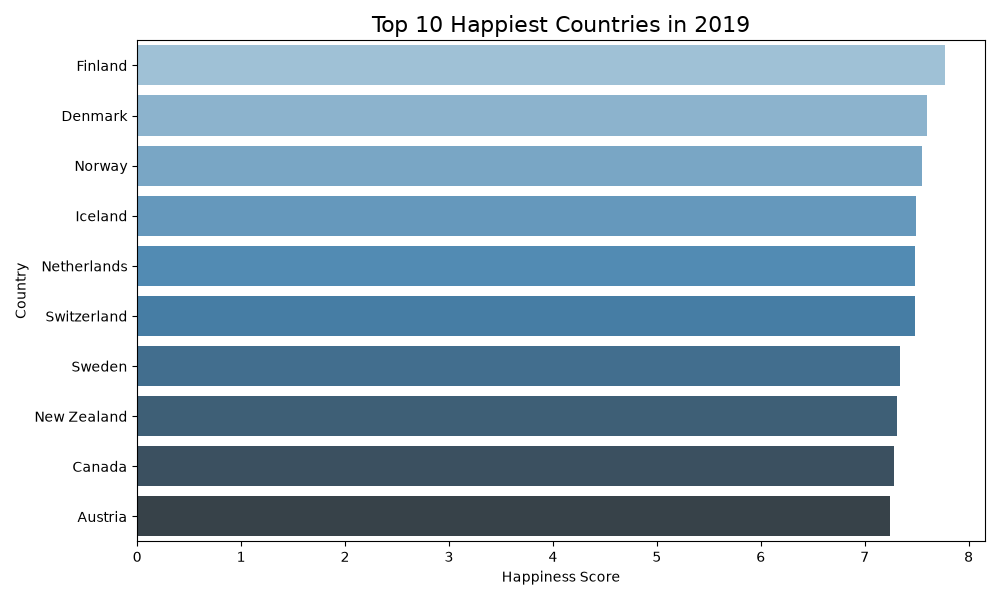
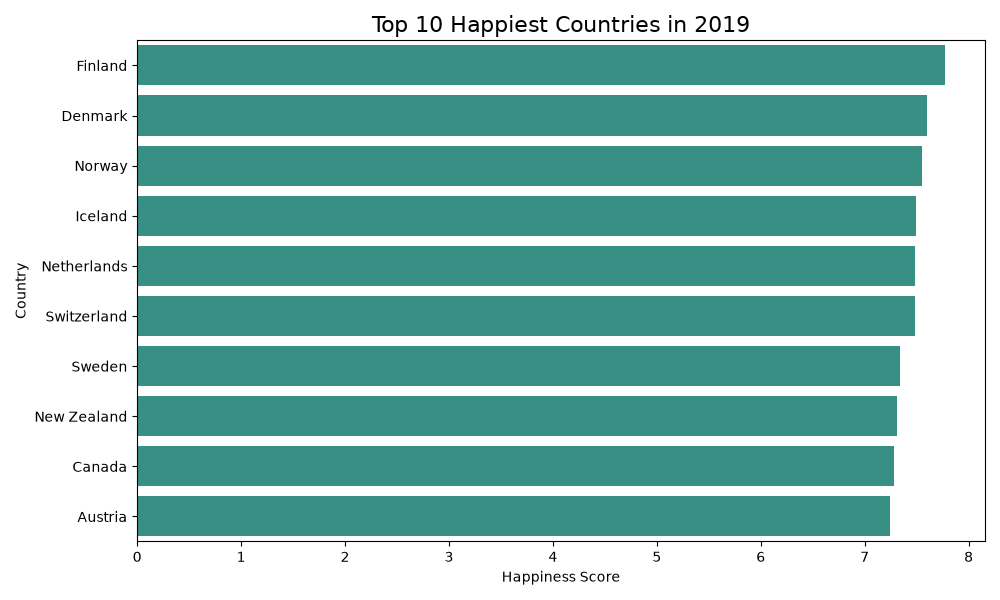
Update charts with teal colour scheme

diff --git a/analysis.py b/analysis.py
@@ -4,15 +4,19 @@
 # ============================================
 
 import pandas as pd
+import matplotlib.pyplot as plt
+import seaborn as sns
 
-# Load all 5 years of data
+# ============================================
+# STEP 1: LOAD DATA
+# ============================================
+
 df_2015 = pd.read_csv("data/2015.csv")
 df_2016 = pd.read_csv("data/2016.csv")
 df_2017 = pd.read_csv("data/2017.csv")
 df_2018 = pd.read_csv("data/2018.csv")
 df_2019 = pd.read_csv("data/2019.csv")
 
-# Preview the 2015 data
 print("Shape:", df_2015.shape)
 print("\nColumns:", df_2015.columns.tolist())
 print("\nFirst 5 rows:")
@@ -22,45 +26,26 @@ print(df_2015.head())
 # STEP 2: DATA CLEANING & EXPLORATION
 # ============================================
 
-# Check for missing values in 2015
 print("Missing values in 2015:")
 print(df_2015.isnull().sum())
 
-# Check basic statistics
 print("\nBasic statistics:")
 print(df_2015.describe())
 
 # ============================================
-# STEP 3: COMBINE ALL YEARS INTO ONE DATASET
+# STEP 3: ADD YEAR COLUMN
 # ============================================
 
-# Add a 'Year' column to each dataframe so we know which year each row came from
 df_2015['Year'] = 2015
 df_2016['Year'] = 2016
 df_2017['Year'] = 2017
 df_2018['Year'] = 2018
 df_2019['Year'] = 2019
 
-# Combine all 5 into one big dataframe
-df_all = pd.concat([df_2015, df_2016, df_2017, df_2018, df_2019], ignore_index=True)
-
-print("Combined dataset shape:", df_all.shape)
-print("\nYears in dataset:", df_all['Year'].unique())
-
-# ============================================
-# STEP 4: FIX COLUMN NAME INCONSISTENCIES
-# ============================================
-
-# Check column names across different years
-print("2015 columns:", df_2015.columns.tolist())
-print("2018 columns:", df_2018.columns.tolist())
-print("2019 columns:", df_2019.columns.tolist())
-
 # ============================================
 # STEP 4: STANDARDISE COLUMN NAMES
 # ============================================
 
-# Rename columns in each year to match a standard set
 df_2015 = df_2015.rename(columns={
     'Happiness Rank': 'Rank',
     'Happiness Score': 'Score',
@@ -109,8 +94,7 @@ df_2019 = df_2019.rename(columns={
     'Perceptions of corruption': 'Corruption',
 })
 
-# Keep only the columns that exist across all years
-cols = ['Country', 'Rank', 'Score', 'GDP', 'Social Support', 
+cols = ['Country', 'Rank', 'Score', 'GDP', 'Social Support',
         'Health', 'Freedom', 'Generosity', 'Corruption', 'Year']
 
 df_2015 = df_2015[cols]
@@ -119,7 +103,6 @@ df_2017 = df_2017[cols]
 df_2018 = df_2018[cols]
 df_2019 = df_2019[cols]
 
-# Combine into one clean dataset
 df_all = pd.concat([df_2015, df_2016, df_2017, df_2018, df_2019], ignore_index=True)
 
 print("Clean combined shape:", df_all.shape)
@@ -131,24 +114,17 @@ print(df_all.head())
 # STEP 5: TOP 10 HAPPIEST COUNTRIES (2019)
 # ============================================
 
-import matplotlib.pyplot as plt
-import seaborn as sns
-
-# Filter just 2019 data and get top 10
 top10 = df_all[df_all['Year'] == 2019].nlargest(10, 'Score')
 
-# Create the chart
 plt.figure(figsize=(10, 6))
-sns.barplot(data=top10, x='Score', y='Country', palette='Blues_d')
-
+sns.barplot(data=top10, x='Score', y='Country', color='#2a9d8f')
 plt.title('Top 10 Happiest Countries in 2019', fontsize=16)
 plt.xlabel('Happiness Score')
 plt.ylabel('Country')
 plt.tight_layout()
 plt.savefig('Visuals/top10_happiest_2019.png')
 plt.show()
-
-print("Chart saved!")
+print("Chart 1 saved!")
 
 # ============================================
 # STEP 6: BOTTOM 10 UNHAPPIEST COUNTRIES (2019)
@@ -157,133 +133,27 @@ print("Chart saved!")
 bottom10 = df_all[df_all['Year'] == 2019].nsmallest(10, 'Score')
 
 plt.figure(figsize=(10, 6))
-sns.barplot(data=bottom10, x='Score', y='Country', palette='Reds_d')
-
+sns.barplot(data=bottom10, x='Score', y='Country', color='#1a5c5c')
 plt.title('Bottom 10 Unhappiest Countries in 2019', fontsize=16)
 plt.xlabel('Happiness Score')
 plt.ylabel('Country')
 plt.tight_layout()
 plt.savefig('Visuals/bottom10_unhappiest_2019.png')
 plt.show()
-
-print("Bottom 10 chart saved!")
+print("Chart 2 saved!")
 
 # ============================================
 # STEP 7: CORRELATION HEATMAP
 # ============================================
 
-# Select only the numeric factor columns
-factors = ['Score', 'GDP', 'Social Support', 'Health', 
+factors = ['Score', 'GDP', 'Social Support', 'Health',
            'Freedom', 'Generosity', 'Corruption']
 
-# Calculate correlation matrix
 corr = df_all[factors].corr()
 
-# Plot heatmap
 plt.figure(figsize=(10, 8))
-sns.heatmap(corr, annot=True, cmap='coolwarm', fmt='.2f', linewidths=0.5)
-
+sns.heatmap(corr, annot=True, cmap='YlGnBu', fmt='.2f', linewidths=0.5)
 plt.title('Correlation Between Happiness Factors', fontsize=16)
 plt.tight_layout()
 plt.savefig('Visuals/correlation_heatmap.png')
-plt.show()
-
-print("Heatmap saved!")
-
-# ============================================
-# STEP 8: AVERAGE HAPPINESS BY YEAR (TREND)
-# ============================================
-
-# Calculate the average happiness score for each year
-yearly_avg = df_all.groupby('Year')['Score'].mean()
-
-# Plot the trend line
-plt.figure(figsize=(10, 6))
-plt.plot(yearly_avg.index, yearly_avg.values, marker='o', 
-         color='steelblue', linewidth=2.5, markersize=8)
-
-plt.title('Average Global Happiness Score 2015-2019', fontsize=16)
-plt.xlabel('Year')
-plt.ylabel('Average Happiness Score')
-plt.xticks([2015, 2016, 2017, 2018, 2019])
-plt.ylim(5.0, 5.6)
-plt.grid(axis='y', linestyle='--', alpha=0.7)
-plt.tight_layout()
-plt.savefig('Visuals/happiness_trend_2015_2019.png')
-plt.show()
-
-print("Trend chart saved!")
-
-# ============================================
-# STEP 9: AVERAGE HAPPINESS BY REGION
-# ============================================
-
-# Reload original 2015 data which still has Region column
-df_2015_original = pd.read_csv("data/2015.csv")
-region_avg = df_2015_original.groupby('Region')['Happiness Score'].mean().sort_values(ascending=True)
-
-# Plot horizontal bar chart
-plt.figure(figsize=(12, 8))
-bars = plt.barh(region_avg.index, region_avg.values, color='steelblue')
-
-# Add value labels on each bar
-for bar, value in zip(bars, region_avg.values):
-    plt.text(value + 0.05, bar.get_y() + bar.get_height()/2, 
-             f'{value:.2f}', va='center', fontsize=10)
-
-plt.title('Average Happiness Score by Region (2015)', fontsize=16)
-plt.xlabel('Average Happiness Score')
-plt.ylabel('Region')
-plt.xlim(0, 8)
-plt.tight_layout()
-plt.savefig('Visuals/happiness_by_region.png')
-plt.show()
-
-print("Regional chart saved!")
-
-# ============================================
-# STEP 10: GDP vs HAPPINESS SCATTER PLOT
-# ============================================
-
-plt.figure(figsize=(10, 7))
-sns.scatterplot(data=df_all, x='GDP', y='Score', 
-                alpha=0.5, color='steelblue')
-
-# Add a trend line
-sns.regplot(data=df_all, x='GDP', y='Score', 
-            scatter=False, color='red', line_kws={'linewidth': 2})
-
-plt.title('GDP per Capita vs Happiness Score (2015-2019)', fontsize=16)
-plt.xlabel('GDP per Capita')
-plt.ylabel('Happiness Score')
-plt.tight_layout()
-plt.savefig('Visuals/gdp_vs_happiness.png')
-plt.show()
-
-print("Scatter plot saved!")
-
-# ============================================
-# STEP 11: TRACKING SPECIFIC COUNTRIES OVER TIME
-# ============================================
-
-# Pick interesting countries to track
-countries = ['Finland', 'Denmark', 'Norway', 'Iceland', 'Switzerland']
-
-plt.figure(figsize=(12, 7))
-
-for country in countries:
-    country_data = df_all[df_all['Country'] == country]
-    plt.plot(country_data['Year'], country_data['Score'], 
-             marker='o', linewidth=2, label=country)
-
-plt.title('Happiness Score Trends - Top Nordic Countries (2015-2019)', fontsize=16)
-plt.xlabel('Year')
-plt.ylabel('Happiness Score')
-plt.xticks([2015, 2016, 2017, 2018, 2019])
-plt.legend()
-plt.grid(axis='y', linestyle='--', alpha=0.7)
-plt.tight_layout()
-plt.savefig('Visuals/nordic_trends.png')
-plt.show()
-
-print("Nordic trends chart saved!")
+p